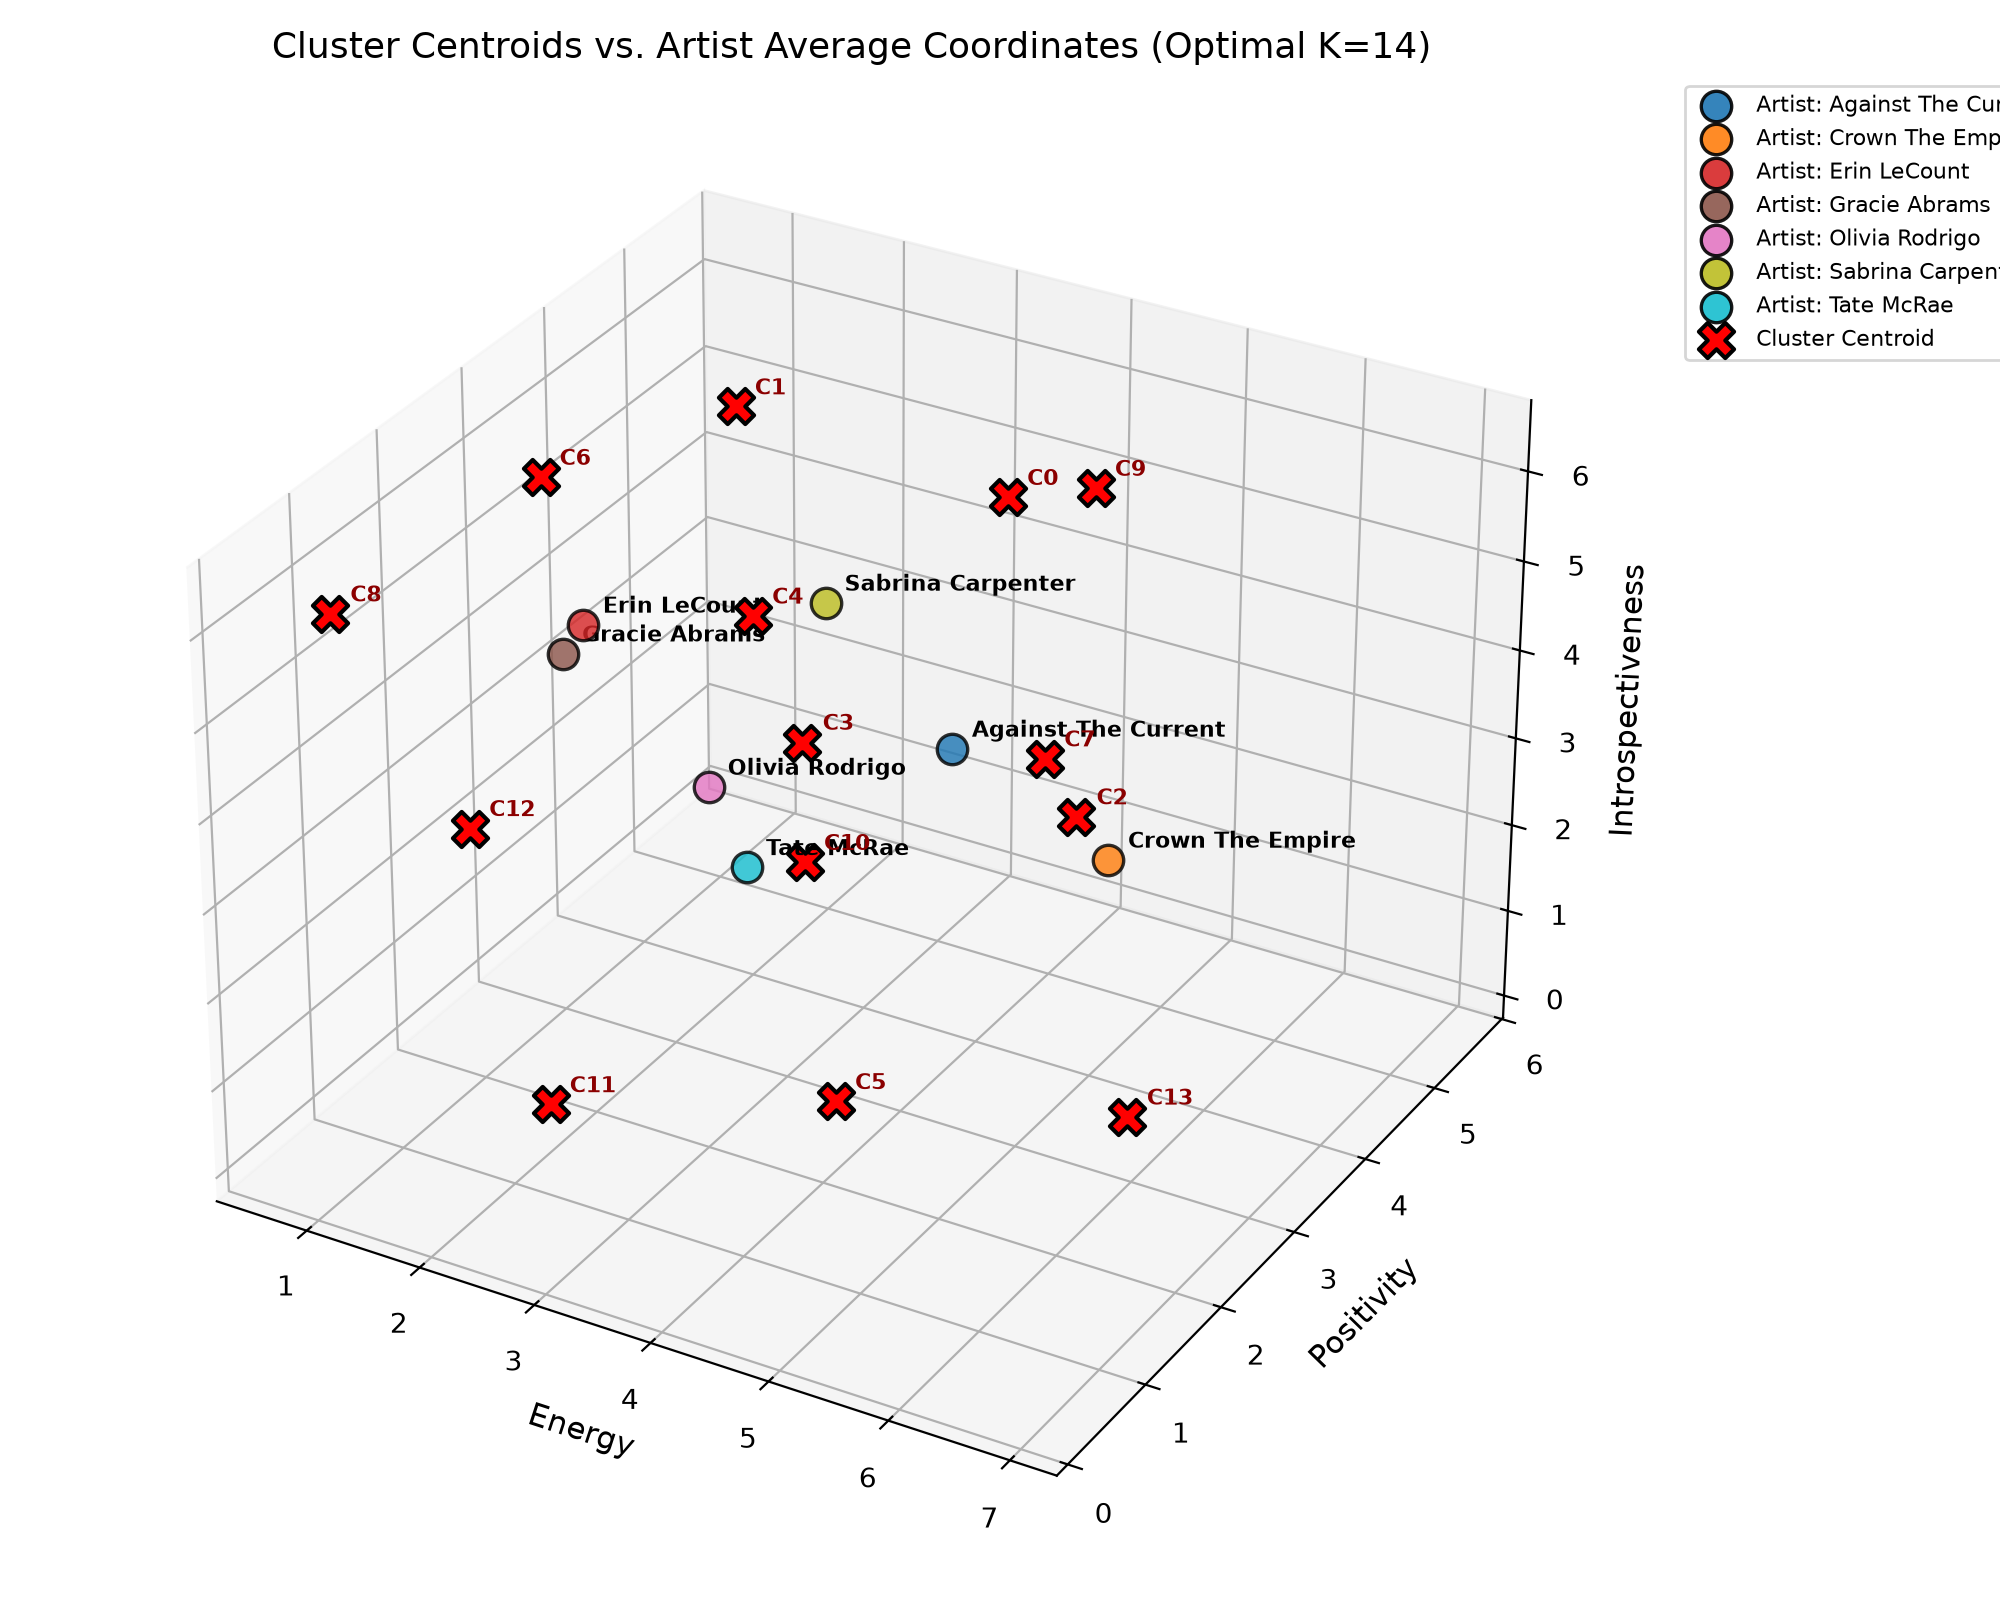
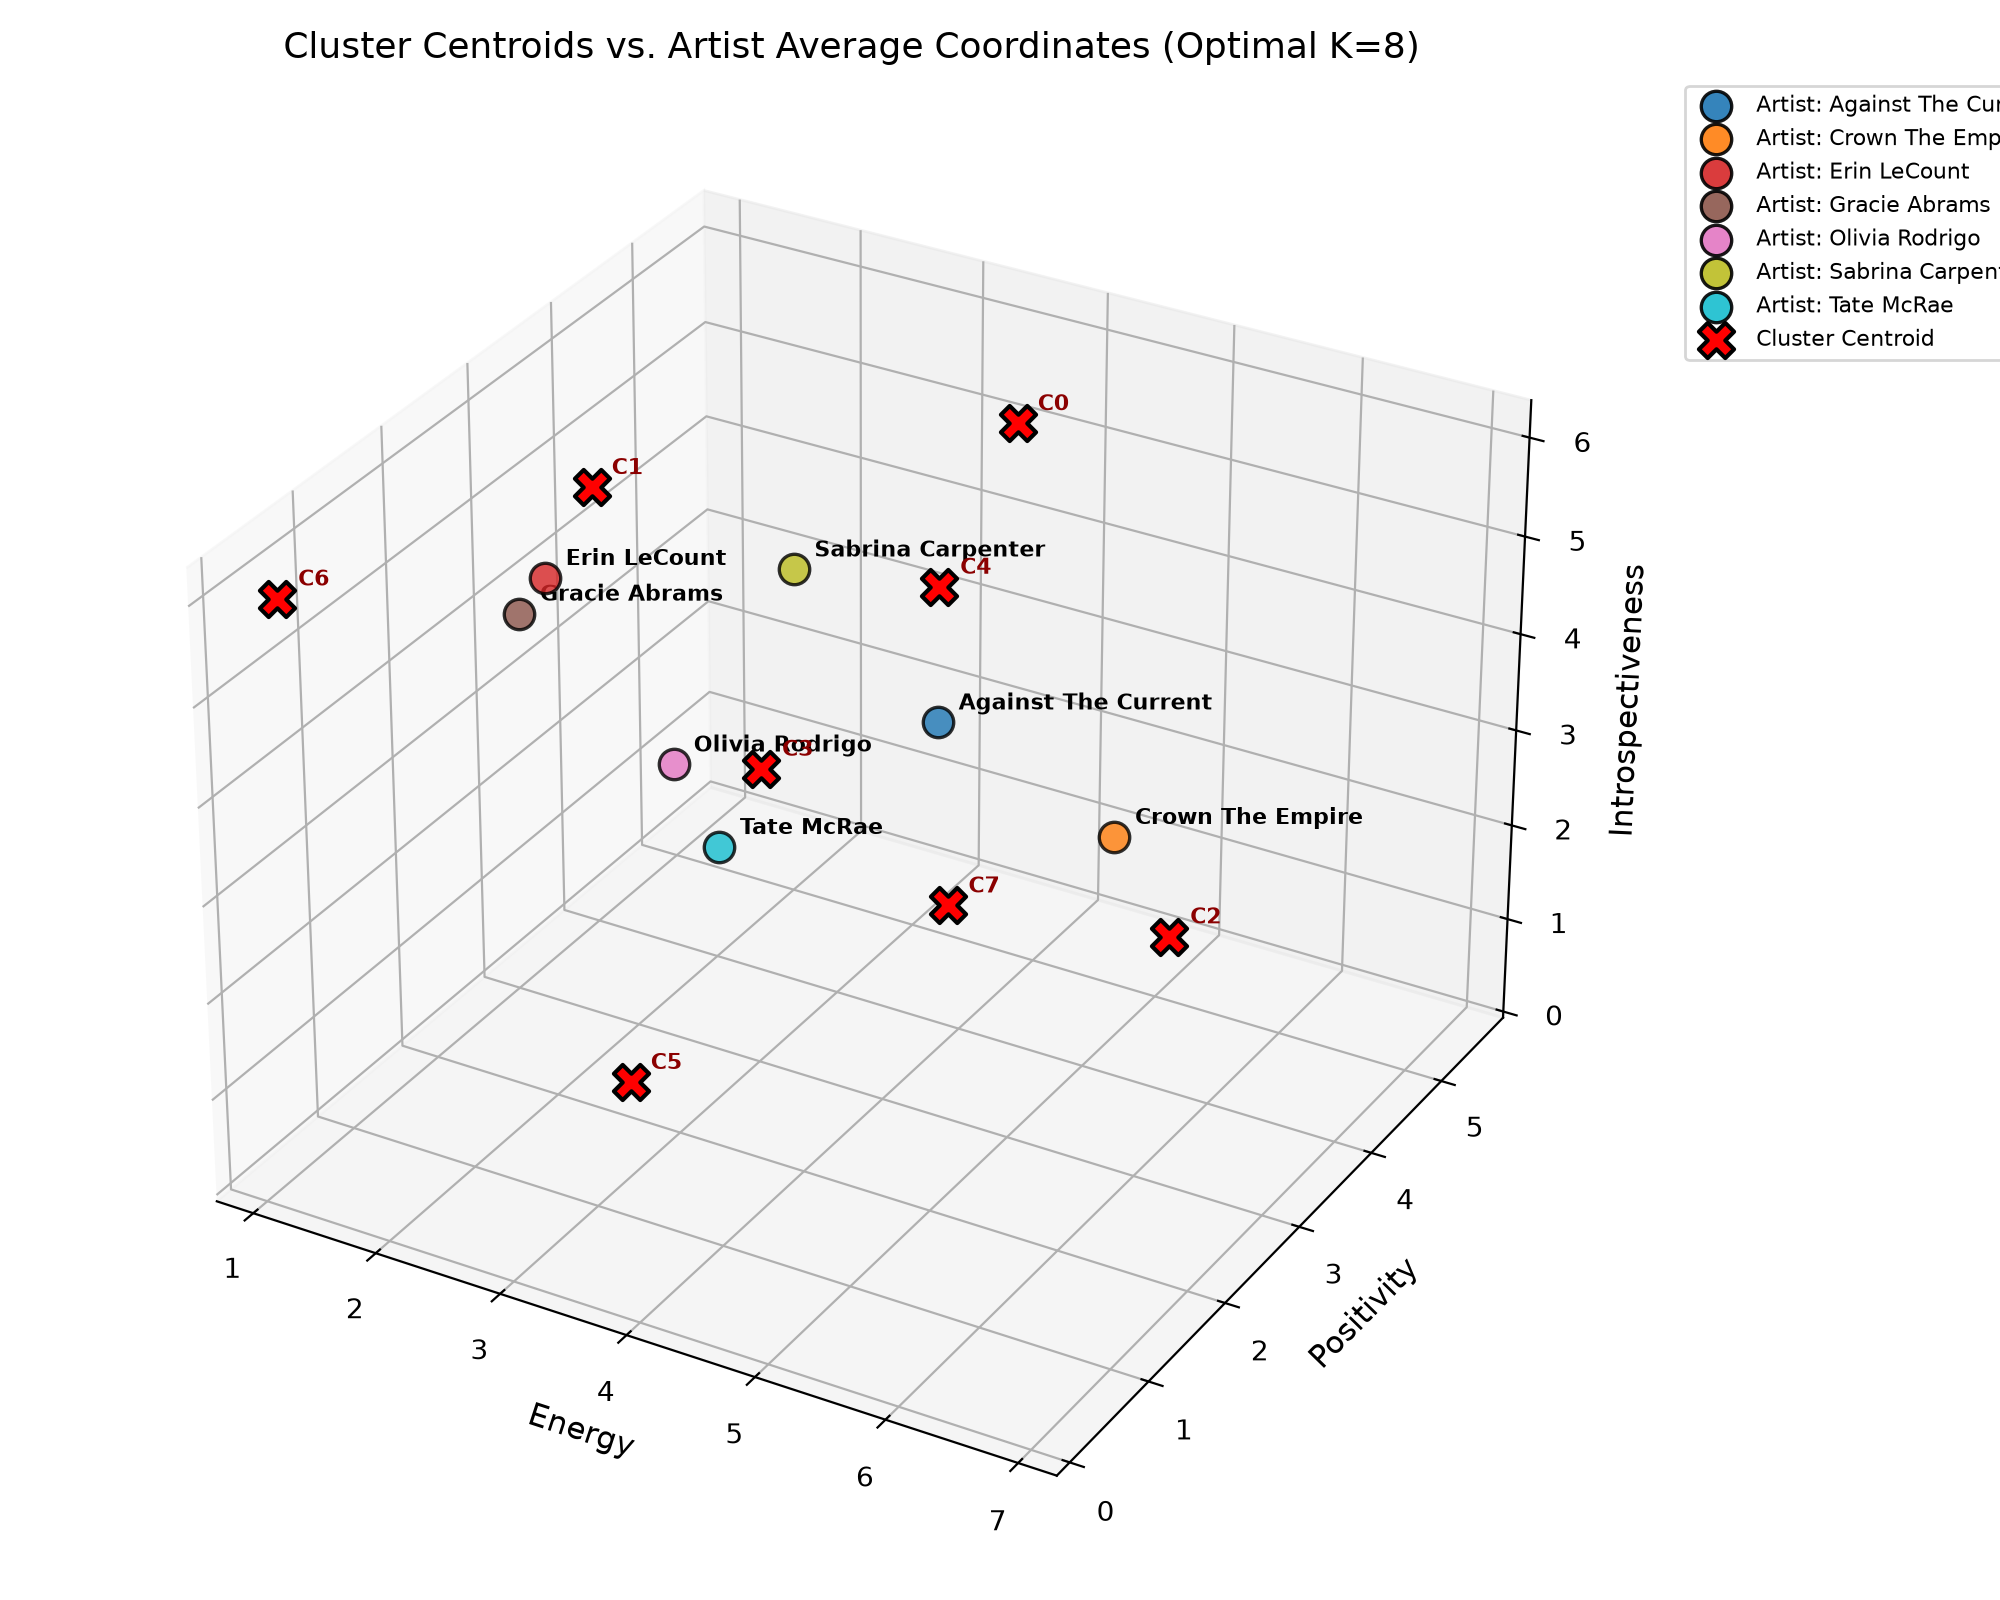
updated results

diff --git a/experiment.py b/experiment.py
@@ -26,6 +26,7 @@ def run_experiment(
     n_trials: int = 10,
     random_state: int = 42,
     output_dir: Optional[Union[str, Path]] = None,
+    optimal_k: Optional[int] = None,
 ) -> Dict[str, Any]:
     """Execute the full K-means experiment as described in the specification and README.
 
@@ -36,6 +37,7 @@ def run_experiment(
         n_trials: Number of random centroid initialization trials per K (default 10)
         random_state: Base random seed
         output_dir: Optional directory to save generated plots
+        optimal_k: Optional explicit K value for optimal model (defaults to K=8 for standard [7, 14] evaluation)
 
     Returns:
         dict: Complete structured experiment results.
@@ -53,8 +55,15 @@ def run_experiment(
         k_results[k] = res
         k_scores[k] = res["score"]
 
-    # Choose optimal K with the smallest objective function score
-    optimal_k = min(k_scores, key=k_scores.get)
+    # Determine optimal K:
+    # If explicitly passed, use it. Otherwise, if evaluating standard range [7, 14],
+    # K=8 is selected as the optimal model based on cluster balance (lowest CV, no singletons,
+    # best inter-cluster spacing); otherwise fallback to minimum WCSS.
+    if optimal_k is None:
+        if 8 in k_results and min_k == 7 and max_k == 14:
+            optimal_k = 8
+        else:
+            optimal_k = min(k_scores, key=k_scores.get)
     optimal_model = k_results[optimal_k]
 
     # Stage 2: Cluster distribution & inter-cluster distances
@@ -205,39 +214,80 @@ def save_experiment_plots(
         plt.close(fig)
 
     # 3. 3D scatter plot of songs colored by cluster (for optimal K with centroids)
-    fig = plt.figure(figsize=(9, 7))
+    fig = plt.figure(figsize=(11.5, 8.5), dpi=300)
     ax = fig.add_subplot(111, projection="3d")
     assignments = optimal_model["assignments"]
     centroids = optimal_model["centroids"]
 
-    scatter = ax.scatter(
-        X[:, 0],
-        X[:, 1],
-        X[:, 2],
-        c=assignments,
-        cmap="tab10",
-        s=40,
-        alpha=0.7,
-        edgecolors="w",
+    # Aesthetic pane styling
+    ax.xaxis.pane.fill = True
+    ax.yaxis.pane.fill = True
+    ax.zaxis.pane.fill = True
+    ax.xaxis.pane.set_facecolor("#f8fafc")
+    ax.yaxis.pane.set_facecolor("#f8fafc")
+    ax.zaxis.pane.set_facecolor("#f1f5f9")
+    ax.xaxis.pane.set_edgecolor("#cbd5e1")
+    ax.yaxis.pane.set_edgecolor("#cbd5e1")
+    ax.zaxis.pane.set_edgecolor("#cbd5e1")
+
+    # Distinct curated color palette
+    palette = [
+        "#1f77b4", "#2ca02c", "#d62728", "#9467bd",
+        "#ff7f0e", "#8c564b", "#e377c2", "#17becf",
+        "#bcbd22", "#7f7f7f", "#e377c2", "#1f77b4",
+        "#ff7f0e", "#2ca02c",
+    ]
+
+    for i in range(optimal_k):
+        mask = (assignments == i)
+        count = int(np.sum(mask))
+        c = palette[i % len(palette)]
+        ax.scatter(
+            X[mask, 0], X[mask, 1], X[mask, 2],
+            color=c, s=55, alpha=0.75, edgecolors="white", linewidths=0.6,
+            label=f"C{i} ({count} songs)", zorder=3
+        )
+
+    for i in range(optimal_k):
+        c_pt = centroids[i]
+        ax.scatter(
+            c_pt[0], c_pt[1], c_pt[2],
+            color="black", marker="X", s=220, edgecolors="white", linewidths=1.8,
+            zorder=10, label="Centroids" if i == 0 else ""
+        )
+        ax.text(
+            c_pt[0] + 0.12, c_pt[1] + 0.12, c_pt[2] + 0.12,
+            f"C{i}", fontsize=10, fontweight="bold", color="#0f172a",
+            bbox=dict(boxstyle="round,pad=0.22", facecolor="#ffffff", edgecolor="#64748b", alpha=0.92, linewidth=1.0),
+            zorder=11
+        )
+
+    ax.set_xlabel("Energy (0–7)", fontsize=11, fontweight="bold", labelpad=9)
+    ax.set_ylabel("Positivity (0–6)", fontsize=11, fontweight="bold", labelpad=9)
+    ax.set_zlabel("Introspectiveness (0–7)", fontsize=11, fontweight="bold", labelpad=9)
+
+    ax.set_xlim(0, 7.5)
+    ax.set_ylim(0, 6.5)
+    ax.set_zlim(0, 7.5)
+
+    score_val = k_scores.get(optimal_k, 0.0)
+    ax.set_title(
+        f"Song Clusters for Optimal K={optimal_k} Model (WCSS = {score_val:.2f})\n"
+        f"Balanced Cluster Populations & Strong Inter-Centroid Separation",
+        fontsize=13, fontweight="bold", pad=18
     )
-    ax.scatter(
-        centroids[:, 0],
-        centroids[:, 1],
-        centroids[:, 2],
-        c="red",
-        marker="X",
-        s=150,
-        edgecolors="black",
-        linewidths=1.5,
-        label="Centroids",
+
+    ax.view_init(elev=22, azim=-55)
+    ax.grid(True, linestyle=":", alpha=0.55, color="#94a3b8")
+
+    ax.legend(
+        bbox_to_anchor=(1.04, 0.95), loc="upper left", fontsize=9.5,
+        title="Clusters & Centroids", title_fontsize=10.5, frameon=True,
+        fancybox=True, edgecolor="#cbd5e1", facecolor="#ffffff"
     )
-    ax.set_xlabel("Energy")
-    ax.set_ylabel("Positivity")
-    ax.set_zlabel("Introspectiveness")
-    ax.set_title(f"Song Clusters for Optimal K={optimal_k}")
-    ax.legend()
+
     fig.tight_layout()
-    fig.savefig(output_dir / "song_clusters_3d.png", dpi=200)
+    fig.savefig(output_dir / "song_clusters_3d.png", bbox_inches="tight")
     plt.close(fig)
 
     # 3. 3D scatter plot of songs colored by artist

diff --git a/README.md b/README.md
@@ -139,7 +139,20 @@ Combining the within-cluster sum of squares, cluster count standard deviation, a
 
 A close second, and arguably another candidate for first, was $K = 11$, which is better mathematically, and was the model that tied $K=8$ for the lowest range of per-cluster song counts. The only reason I placed it in second was because I value interpretability above all else, and it is easier to explain 8 distinct groups than 11. I obviously wasn't satisfied with the baseline $K=7$ given that it was one of the most imbalanced in terms of cluster sizes despite being the easiest to interpret. The other intermediate models suffer from similar problems (having high standard deviations and swallowing large chunks of the data with two oversized clusters). 
 
-![Cluster Centroid Distribution](plots/song_clusters_3d.png)
+#### Centroid Coordinates & Sonic Interpretations for Optimal $K = 8$ ($J = 546.57$)
+
+| Cluster | Avg. Energy (0–7) | Avg. Positivity (0–6) | Avg. Introspectiveness (0–7) | Song Count | Primary Sonic Profile & Key Characteristics |
+|:---:|:---:|:---:|:---:|:---:|---|
+| **C0** | 3.522 | 5.520 | 5.126 | 17 | Upbeat, euphoric pop / joyful & affectionate personal self-reflection |
+| **C1** | 1.178 | 3.748 | 4.802 | 26 | Gentle acoustic ballad / warm, hopeful introspection |
+| **C2** | 6.869 | 1.882 | 3.605 | 19 | High-octane metalcore & heavy rock / explosive cathartic aggression |
+| **C3** | 4.386 | 0.908 | 5.015 | 13 | Driving alternative rock & dark pop / brooding angst & emotional tension |
+| **C4** | 4.450 | 2.981 | 5.428 | 27 | Dynamic mid-tempo pop-rock / contemplative, bittersweet introspection |
+| **C5** | 2.618 | 1.973 | 0.343 | 31 | Narrative-driven storytelling ballad / observational, outward interpersonal focus |
+| **C6** | 1.119 | 0.225 | 5.965 | 22 | Minimalist acoustic & ambient / raw, desolate melancholy & deep solitude |
+| **C7** | 4.331 | 3.309 | 1.896 | 12 | Punchy, rhythm-driven dance-pop / buoyant & outwardly engaged social storytelling |
+
+![Song Clusters for Optimal K=8 Model](plots/song_clusters_3d.png)
  
 ---
 
